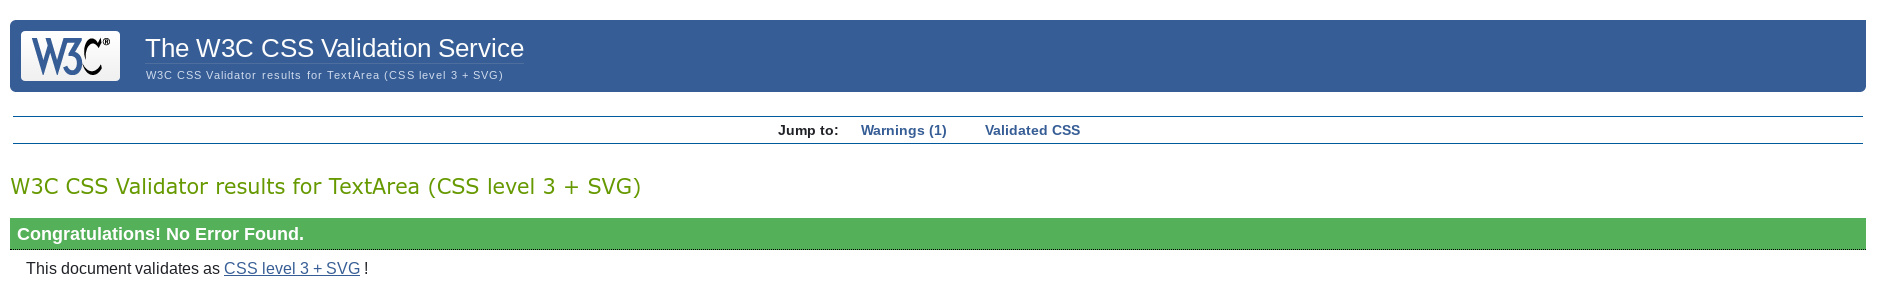
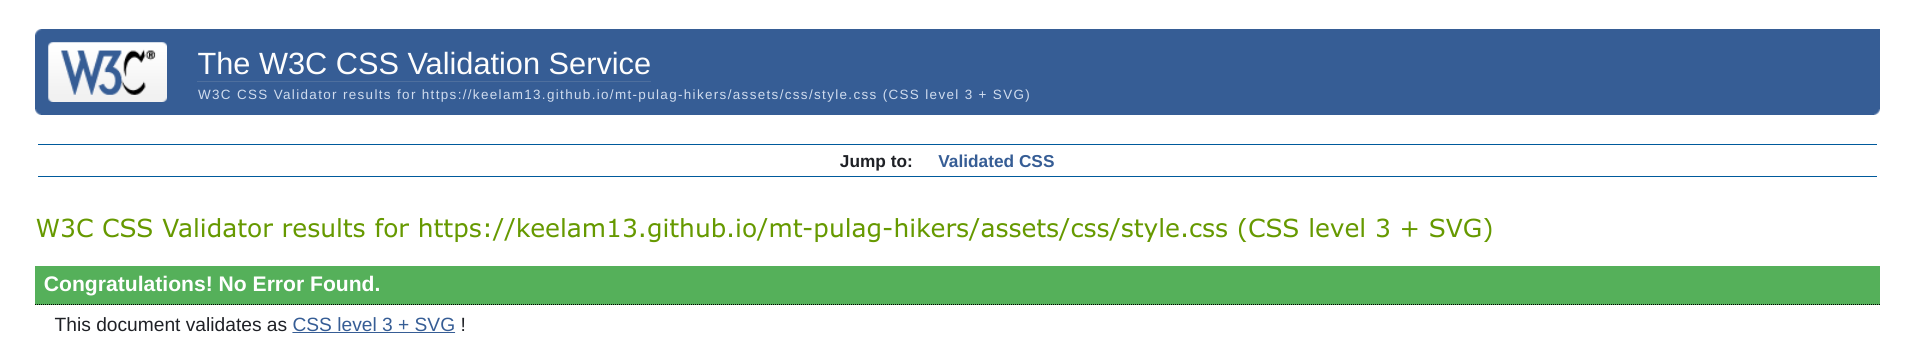
Change image for css validation

diff --git a/TESTING.md b/TESTING.md
@@ -65,10 +65,8 @@ Aside from testing the website of its responsiveness using the dev tools, the [A
     ![Response Page HTML Validator](documentation/validator_response_html.png)
     
 + ### CSS
-  No errors but 1 warning were found when passing through the official W3C (Jigsaw) validator:
+  No errors or warning were found when passing through the official W3C (Jigsaw) validator:
     
-    - Warning: "Imported style sheets are not checked in direct input and file upload modes." 
-
     ![CSS Validator](documentation/validator_css.png)
 
 
